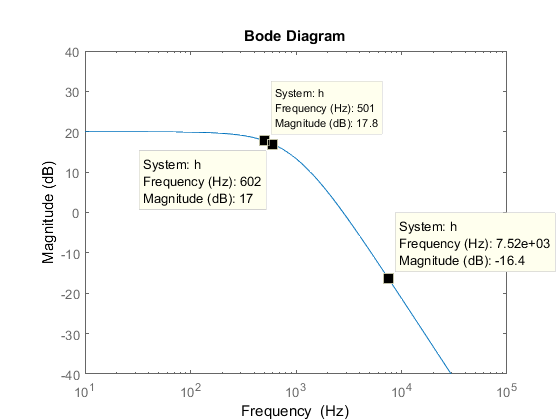
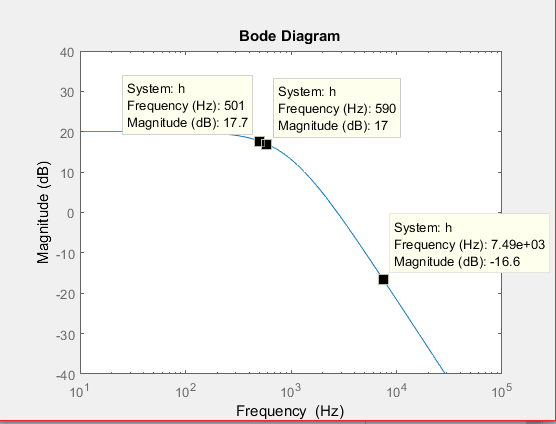
more pee2 filter project

diff --git a/education/principles-of-ee-2/filter-design-project/report.md b/education/principles-of-ee-2/filter-design-project/report.md
@@ -269,9 +269,9 @@ First we should note that in our magnitude equation we see something such as $$\
 
 However now that we are select component values to match the cutoff frequencies we have to take into account that $$RC = \frac{1}{\omega} = \frac{1}{2\pi f}$$ where $$f$$ is the cutoff frequency. We need to include the $$2\pi$$ in order for our circuit to match correctly.
 
-So now 
+We will set our resistors for the filter portion of the circuit each equal to $$47k\Omega$$
 
-From our transfer function we see that $$sRC = \frac{s}{\omega}$$
+So now from our transfer function we see that $$sRC = \frac{s}{\omega}$$
 
 Given our cutoff frequencies 900 and 950 Hz we can see that $$\frac{1}{2\pi f} = RC$$
 
@@ -285,27 +285,23 @@ From the equations above we can then say that:
 $$C_2 = \frac{1}{2\pi\cdot 900R_3}$$
 $$C_1 = \frac{1}{2\pi\cdot 950R_6}$$
 
-So then we find that the exact values for $$C_1$$ and $$C_2$$ are $$3.537nF$$ and $$3.351nF$$ respectively
+So then we find that the exact values for $$C_1$$ and $$C_2$$ are $$3.763nF$$ and $$3.564nF$$ respectively
 
-However, because we must choose nominal values, we will set $$C_1 = 3.5nF$$. This is achieved by putting two $$1nF$$ and a $$1.5nF$$ capacitor all in parallel with one another to achieve $$3.5nF$$ capacitance.
+However, because we must choose nominal values, we will set $$C_1 = 3.9nF$$ because it is the closest nominal value
 
-Then, we can get $$21nF$$ by the following:
-
-1. Put a $$3.3nF$$ capacitor and a $$2.2nF$$ capacitor in series. Their equivalent capacitance is $$1.32nF$$
-2. In parallel with (1), put a two $$1nF$$ capacitors. This will achieve a capacitance of approximately $$1 + 1 + 1.32 = 3.32nF$$
-
+Then, we can get $$3.5nF$$ by putting a $$1.5nF$$ capacitor and two $$1nF$$ capacitors in parallel with one another
 
 See below for a complete summary of our circuit's values
 
-| Component | Value |
+| Component | Nominal Value |
 | $$R_1$$ | $$2.2k\Omega$$ |
 | $$R_2$$ | $$2.2k\Omega$$ |
-| $$R_3$$ | $$50k\Omega$$ |
+| $$R_3$$ | $$47k\Omega$$ |
 | $$R_4$$ | $$2.2k\Omega$$ |
 | $$R_5$$ | $$8.8k\Omega$$ |
-| $$R_6$$ | $$50k\Omega$$ |
-| $$C_1$$ | $$3.5nF$$ |
-| $$C_2$$ | $$3.32nF$$ |
+| $$R_6$$ | $$47k\Omega$$ |
+| $$C_1$$ | $$3.9nF$$ |
+| $$C_2$$ | $$3.5nF$$ |
 
 
 ### Magnitude and Frequency Response Characteristic
@@ -315,12 +311,12 @@ The plots in this section were derived from the Matlab code below:
 ~~~
 r1=2200;
 r2=2200;
-r3=50000; %5 10k resistors in series
+r3=47000;
 r4=2200;
 r5=8800;
-r6=50000; %5 10k resistors in series
-c1=3.5*10^-9; % From combination of nominal components- see report
-c2=3.32*10^-9; % From combination of nominal components- see report
+r6=47000; %5 10k resistors in series
+c1=3.9*10^-9; % From combination of nominal components- see report
+c2=3.5*10^-9; % From combination of nominal components- see report
 
 w1=(r3.*c1);
 w2=(r6.*c2);
@@ -343,7 +339,7 @@ opts.Ylim = [-40 40];
 bodemag(h, opts);
 ~~~
 
-![](/assets/images/filter-design/response-1.png)
+![](/assets/images/filter-design/response-2.png)
 
 ![](/assets/images/filter-design/response-mag.png)
 
@@ -386,19 +382,19 @@ bodemag(h, opts);
 ~~~
 
 
-![](/assets/images/filter-design/altered-bode.png)
+![](/assets/images/filter-design/altered-bode-2.png)
 
 We can see that even though the resistors had slightly changed, our response still fell within the problem's constraints.
 
 ### Conversion From a Low Pass to a High Pass Filter
 
-
+From the matlab code above we can see that the 3dB frequency is approximately 590Hz.
 
 Given our transfer function:
 
 > $$ H(s) = \frac{k_1k_2}{(1 + \frac{s}{\omega_{c1}})(1 + \frac{s}{\omega_{c2}})} $$
 
-If we want to turn this function into once which mimics a High-pass filter it is necessary to replace all values of $$s$$ with $$\frac{\omega_o^2}{s}$$
+If we want to turn this function into once which mimics a High-pass filter it is necessary to replace all values of $$s$$ with $$\frac{\omega_o^2}{s}$$ where $$\omega_o$$ is the 3dB cutoff of 590Hz.
 
 This would then give us:
 
@@ -410,10 +406,10 @@ $$  H(s) = \frac{s^2k_1k_2}{(s + \frac{\omega_o^2}{\omega_{c1}})(s + \frac{\omeg
 
 $$ H(s) = \frac{s^2k_1k_2}{(s + \frac{\omega_o^2}{\omega_{c1}})(s + \frac{\omega_o^2}{\omega_{c2}})} $$
 
-$$  $$
+$$   $$
 
 
-
+![](/assets/images/filter-design/high-pass-circuit.png)
 
 
 
